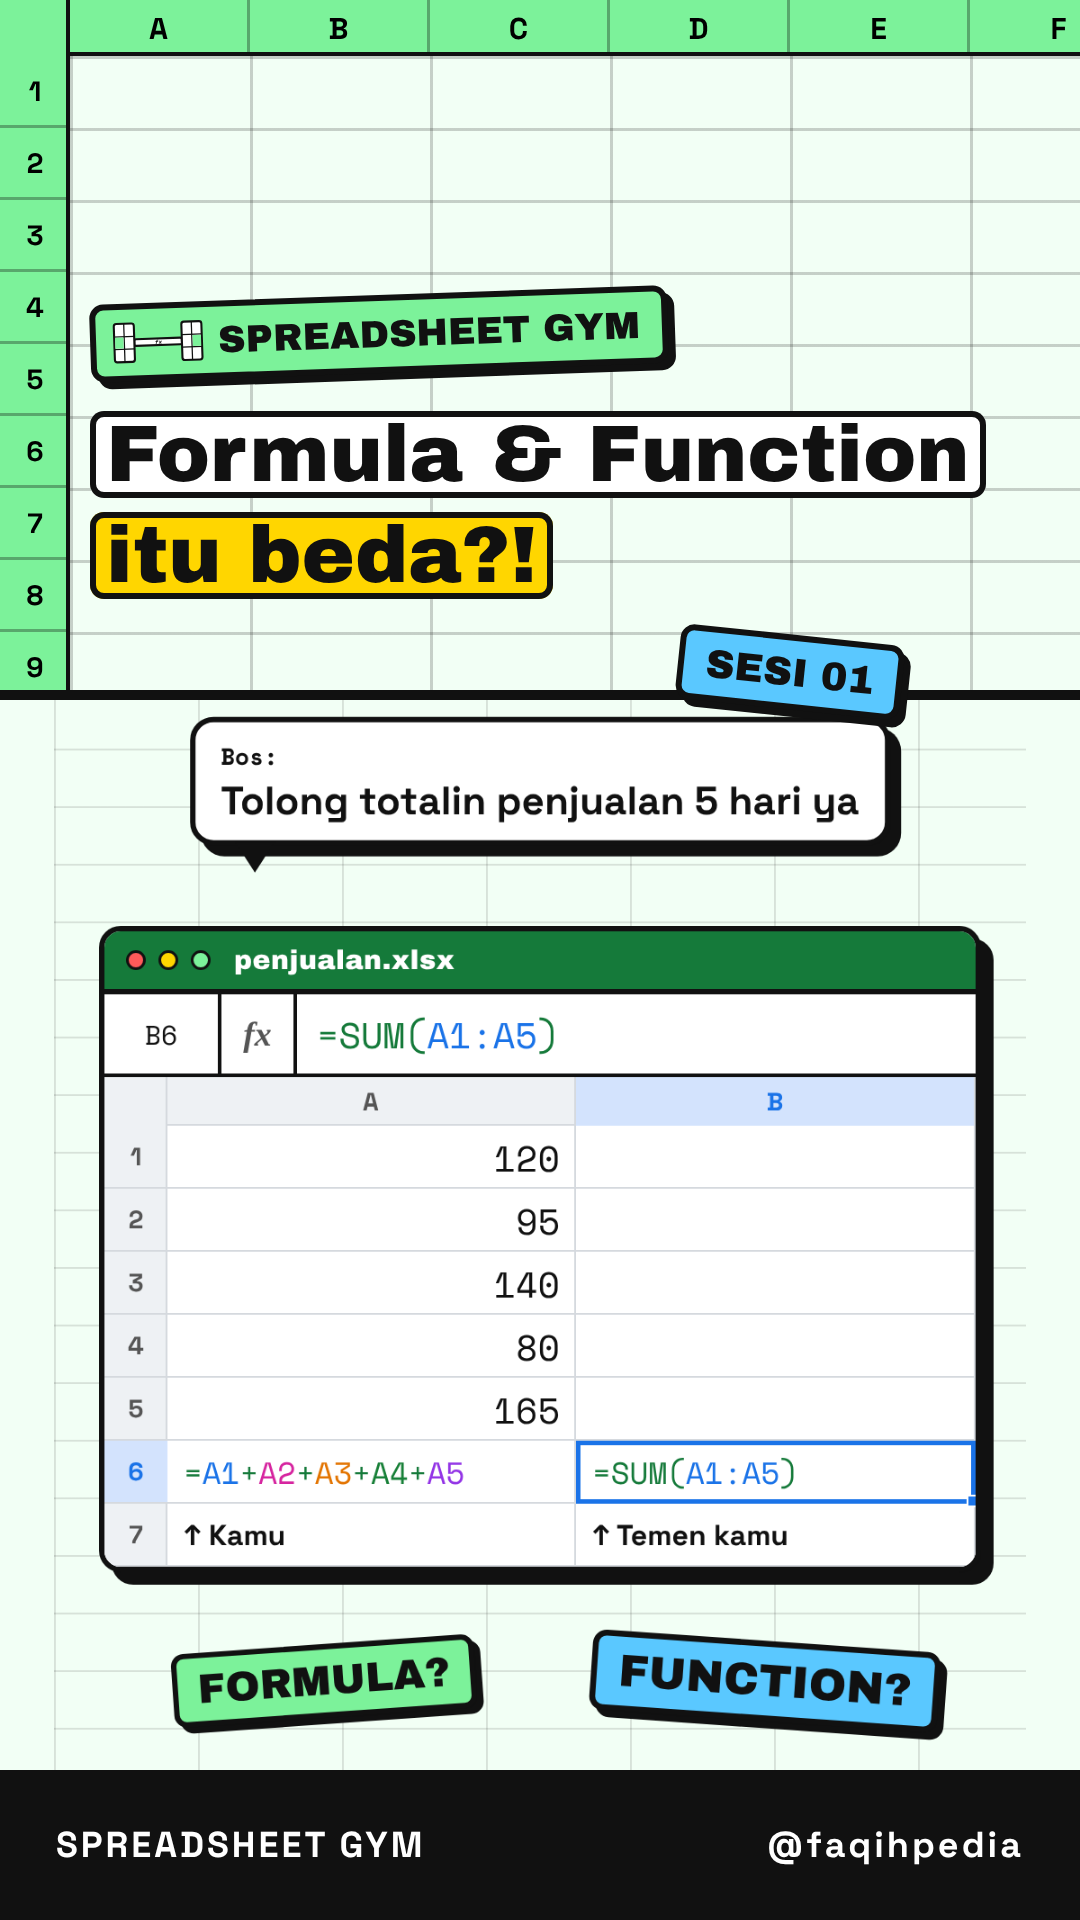
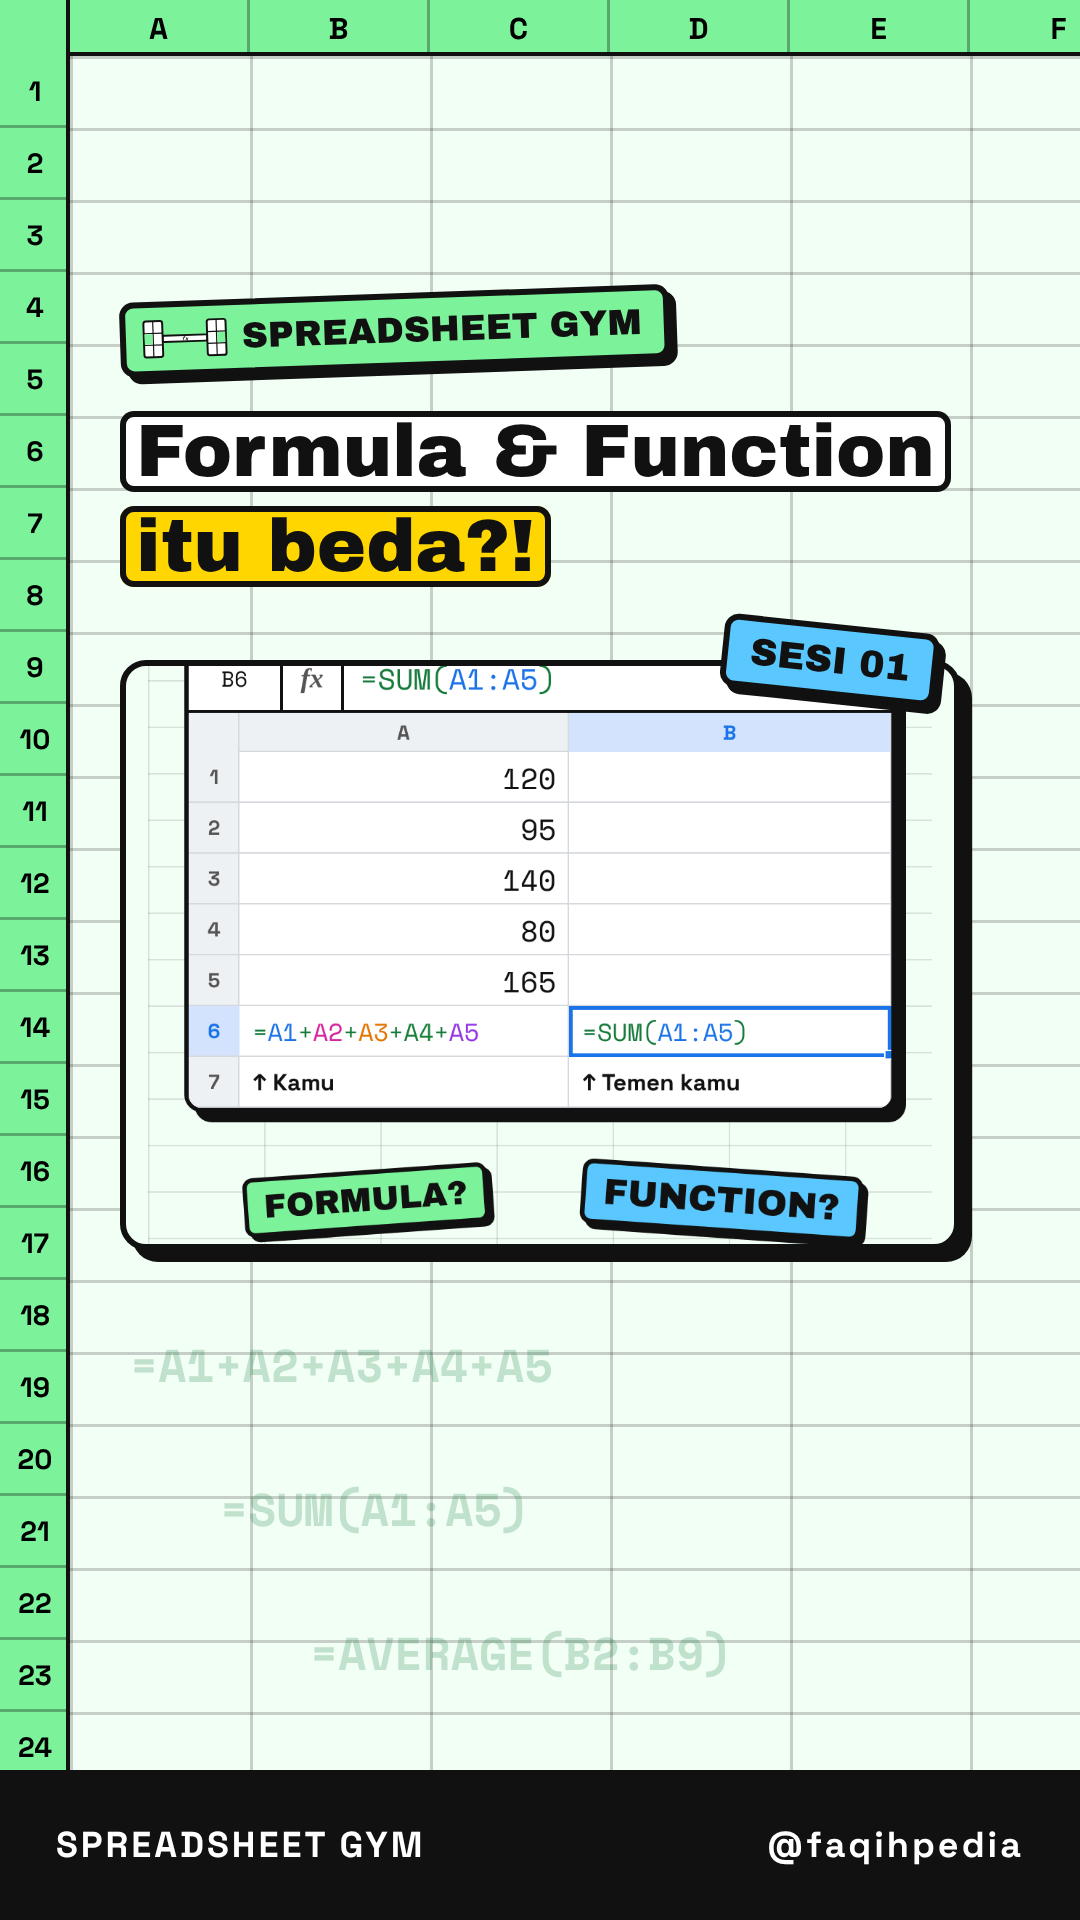
Spreadsheet Gym thumbnail: keep label, title and key visual inside the shared safe box
Claude-Session: https://claude.ai/code/session_018xRo3ZmD22FHxxpmWKTbyx

Changed region(s): [[0.0, 0.3125, 1.0, 0.9375], [0.0611, 0.1562, 0.9167, 0.3125]]

diff --git a/spreadsheet-gym-formula-vs-function/src/Thumbnail.tsx b/spreadsheet-gym-formula-vs-function/src/Thumbnail.tsx
@@ -2,32 +2,35 @@ import React from 'react';
 import { AbsoluteFill, Img, staticFile } from 'remotion';
 import { At, Box, Sticker } from './components';
 import { Barbell } from './scenes';
-import { BORDER, BODY, C, EPISODE_LABEL, HEAD } from './theme';
+import { BORDER, BODY, C, EPISODE_LABEL, HEAD, shadow } from './theme';
 
 /*
- * Cover, same rules as the TRIMS covers (trims-eps2-claude/src/Thumbnail.tsx
- * on claude/awesome-hawking-b9e871), in the Spreadsheet Gym identity:
- *  - segment motif on top (a spreadsheet: column letters, row numbers, cell grid),
- *    segment label + logo top-left tilted -2°, a short title (5 words)
- *  - a real frame of the video across the bottom half; no face in this segment,
- *    so it's the warm-up question at 18.1 s (boss request, both formulas,
- *    "Formula?" / "Function?"). It must not show the answer.
- *  - a tilted card on the panel edge (episode number, plate blue)
- *  - black series strip at the bottom
+ * Cover for TikTok, IG Reels and the IG feed.
+ *
+ * Safe area (same as faqihpedia-askmaps/src/Thumbnail.tsx): label, title and
+ * key visual stay inside the shared safe box x 120-960, y 285-1250. Outside it
+ * there is only decoration, because TikTok's UI covers the top 240, the bottom
+ * 670 and the right 120 px, and IG crops to 3:4 (grid) and 4:5 (feed).
+ *
+ * Inside the box it follows the TRIMS cover rules (trims-eps2-claude):
+ * segment label + logo tilted -2°, a short title on white/yellow marks,
+ * a tilted card on the edge of a real video frame, and the black series strip.
+ * No face in this segment. The frame is the warm-up question (18.1 s: both
+ * formulas, "Formula?" / "Function?"), so the cover never gives the answer away.
  */
-const SAFE = { left: 60, right: 940, top: 285, bottom: 1500 };
+export const SAFE = { x: 120, y: 285, w: 840, h: 965 };
 
 const mark: React.CSSProperties = {
   background: C.white, boxShadow: `inset 0 0 0 6px ${C.ink}`, borderRadius: 14, padding: '0 16px',
   boxDecorationBreak: 'clone', WebkitBoxDecorationBreak: 'clone',
 };
 
-const PHOTO_TOP = 690;
-const FRAME_Y = 330; // first row of the video frame shown at the panel top
-const K = 0.9; // frame scale, so the bubble, sheet and both question stickers fit
-const STRIP = 150;
+// key visual: the sheet + question stickers of the warm-up frame (source y 690-1475, x 40-1040)
+const PANEL = { x: SAFE.x, y: 660, w: SAFE.w, h: SAFE.y + SAFE.h - 660 };
+const SRC = { x: 40, y: 690, w: 1000, h: 785 };
+const K = Math.min((PANEL.w - 40) / SRC.w, (PANEL.h - 20) / SRC.h);
 
-/** spreadsheet motif: header row with column letters, row numbers, cell grid */
+/** spreadsheet motif: header row with column letters, row numbers, cell grid (decoration) */
 const SheetMotif: React.FC = () => {
   const colW = 180;
   const rowH = 72;
@@ -50,7 +53,7 @@ const SheetMotif: React.FC = () => {
         </div>
       ))}
       <div style={{ position: 'absolute', left: 0, top: 0, bottom: 0, width: numW, background: C.green, borderRight: `4px solid ${C.ink}` }} />
-      {Array.from({ length: 9 }, (_, r) => (
+      {Array.from({ length: 26 }, (_, r) => (
         <div key={r} style={{ position: 'absolute', left: 0, top: headH + r * rowH, width: numW, height: rowH, display: 'flex', alignItems: 'center', justifyContent: 'center', fontFamily: BODY, fontWeight: 700, fontSize: 28, borderBottom: `3px solid ${C.ink}55` }}>
           {r + 1}
         </div>
@@ -59,43 +62,69 @@ const SheetMotif: React.FC = () => {
   );
 };
 
-export const Thumbnail: React.FC = () => (
+/** overlays for checking the layout: platform UI (red), IG crops (blue 3:4, green 4:5), safe box (orange) */
+const Guides: React.FC = () => (
+  <AbsoluteFill style={{ pointerEvents: 'none' }}>
+    <div style={{ position: 'absolute', left: 0, right: 0, top: 0, height: 240, background: 'rgba(255,0,80,0.18)' }} />
+    <div style={{ position: 'absolute', left: 0, right: 0, bottom: 0, height: 670, background: 'rgba(255,0,80,0.18)' }} />
+    <div style={{ position: 'absolute', right: 0, top: 240, bottom: 670, width: 120, background: 'rgba(255,0,80,0.18)' }} />
+    <div style={{ position: 'absolute', left: 0, right: 0, top: 240, height: 1440, border: '4px dashed #0A84FF', boxSizing: 'border-box' }} />
+    <div style={{ position: 'absolute', left: 0, right: 0, top: 285, height: 1350, border: '4px dashed #34C759', boxSizing: 'border-box' }} />
+    <div style={{ position: 'absolute', left: SAFE.x, top: SAFE.y, width: SAFE.w, height: SAFE.h, border: '5px solid #FF9F0A', boxSizing: 'border-box' }} />
+  </AbsoluteFill>
+);
+
+export const Thumbnail: React.FC<{ guides?: boolean }> = ({ guides = false }) => (
   <AbsoluteFill style={{ background: C.bg, overflow: 'hidden' }}>
     <SheetMotif />
 
-    {/* real video frame, bleeding off the bottom */}
-    <div style={{ position: 'absolute', left: 0, right: 0, top: PHOTO_TOP, bottom: 0, overflow: 'hidden', borderTop: `${BORDER + 4}px solid ${C.ink}`, background: C.bg }}>
-      <Img src={staticFile('thumb-frame.png')} style={{ position: 'absolute', left: (1080 - 1080 * K) / 2, top: -FRAME_Y * K, width: 1080 * K, height: 1920 * K }} />
-    </div>
+    {/* decoration below the safe box: faded formulas in the grid */}
+    {[['=A1+A2+A3+A4+A5', 1330], ['=SUM(A1:A5)', 1474], ['=AVERAGE(B2:B9)', 1618]].map(([fx, y], i) => (
+      <div key={i} style={{ position: 'absolute', left: 130 + i * 90, top: y as number, fontFamily: '"Space Mono", monospace', fontWeight: 700, fontSize: 46, color: C.formula, opacity: 0.22 }}>
+        {fx}
+      </div>
+    ))}
 
-    {/* segment label, top-left */}
-    <div style={{ position: 'absolute', left: SAFE.left + 30, top: SAFE.top + 10, transform: 'rotate(-2deg)' }}>
-      <Box bg={C.green} pad="8px 22px 8px 14px" radius={14} sh={7} style={{ display: 'flex', alignItems: 'center', gap: 12, fontFamily: HEAD, fontSize: 38, whiteSpace: 'nowrap' }}>
-        <Barbell w={96} />
+    {/* segment label */}
+    <div style={{ position: 'absolute', left: SAFE.x, top: SAFE.y + 18, transform: 'rotate(-2deg)', transformOrigin: 'left center' }}>
+      <Box bg={C.green} pad="8px 22px 8px 14px" radius={14} sh={7} style={{ display: 'flex', alignItems: 'center', gap: 12, fontFamily: HEAD, fontSize: 36, whiteSpace: 'nowrap' }}>
+        <Barbell w={90} />
         SPREADSHEET GYM
       </Box>
     </div>
 
-    {/* title: 5 words */}
-    <div style={{ position: 'absolute', left: SAFE.left + 30, top: 405, fontFamily: HEAD, fontSize: 80, lineHeight: 1.26, color: C.ink, whiteSpace: 'nowrap' }}>
+    {/* title: 5 words, fits the 840 px box */}
+    <div style={{ position: 'absolute', left: SAFE.x, top: 405, width: SAFE.w, fontFamily: HEAD, fontSize: 74, lineHeight: 1.28, color: C.ink, whiteSpace: 'nowrap' }}>
       <span style={mark}>Formula &amp; Function</span>
       <br />
       <span style={{ ...mark, background: C.yellow }}>itu beda?!</span>
     </div>
 
+    {/* key visual: real frame of the warm-up question */}
+    <div style={{ position: 'absolute', left: PANEL.x, top: PANEL.y, width: PANEL.w, height: PANEL.h, overflow: 'hidden', background: C.bg, border: `${BORDER}px solid ${C.ink}`, borderRadius: 26, boxShadow: shadow(12), boxSizing: 'border-box' }}>
+      <Img
+        src={staticFile('thumb-frame.png')}
+        style={{ position: 'absolute', left: (PANEL.w - SRC.w * K) / 2 - SRC.x * K - BORDER, top: 10 - SRC.y * K - BORDER, width: 1080 * K, height: 1920 * K }}
+      />
+    </div>
+
     {/* card on the panel edge */}
-    <At x={790} y={672} r={6}>
-      <Sticker bg={C.blue} size={40}>{EPISODE_LABEL}</Sticker>
+    <At x={830} y={PANEL.y} r={6}>
+      <Sticker bg={C.blue} size={38}>{EPISODE_LABEL}</Sticker>
     </At>
 
-    {/* series strip */}
+    {/* series strip (decoration, under the platform UI) */}
     <div style={{
-      position: 'absolute', left: 0, right: 0, bottom: 0, height: STRIP, background: C.ink, color: C.white,
+      position: 'absolute', left: 0, right: 0, bottom: 0, height: 150, background: C.ink, color: C.white,
       display: 'flex', alignItems: 'center', justifyContent: 'space-between', padding: '0 56px',
       fontFamily: BODY, fontWeight: 700, fontSize: 36, letterSpacing: 3,
     }}>
       <span>SPREADSHEET GYM</span>
       <span>@faqihpedia</span>
     </div>
+
+    {guides && <Guides />}
   </AbsoluteFill>
 );
+
+export const ThumbnailSafeCheck: React.FC = () => <Thumbnail guides />;

diff --git a/spreadsheet-gym-formula-vs-function/src/Root.tsx b/spreadsheet-gym-formula-vs-function/src/Root.tsx
@@ -1,6 +1,6 @@
 import React from 'react';
 import { Composition, Still } from 'remotion';
-import { Thumbnail } from './Thumbnail';
+import { Thumbnail, ThumbnailSafeCheck } from './Thumbnail';
 import { SpreadsheetGym } from './Video';
 import { FPS, TOTAL } from './theme';
 
@@ -8,5 +8,6 @@ export const Root: React.FC = () => (
   <>
     <Composition id="SpreadsheetGym" component={SpreadsheetGym} durationInFrames={TOTAL} fps={FPS} width={1080} height={1920} />
     <Still id="Thumbnail" component={Thumbnail} width={1080} height={1920} />
+    <Still id="ThumbnailSafeCheck" component={ThumbnailSafeCheck} width={1080} height={1920} />
   </>
 );

diff --git a/README.md b/README.md
@@ -113,6 +113,6 @@ python3 scripts/whistle.py public/sfx/whistle.wav                   # optional: 
 npm run render -- --browser-executable=<chrome-headless-shell>
 ```
 
-The cover is `thumbnail.png`, rendered from the `Thumbnail` still (`src/Thumbnail.tsx`) with `npx remotion still Thumbnail thumbnail.png`. It follows the TRIMS cover rules (`trims-eps2-claude/src/Thumbnail.tsx`): segment motif and label on top, a 5-word title, a tilted card on the panel edge, a real video frame across the bottom half, and the black series strip. This segment has no face, so the frame is the warm-up question at 18.1 s (`public/thumb-frame.png`). The cover must not give away the answer.
+The cover is `thumbnail.png` (the `Thumbnail` still in `src/Thumbnail.tsx`), one file for TikTok, IG Reels and the IG feed. It follows the shared safe area from `faqihpedia-askmaps`: label, title and key visual stay inside x 120–960, y 285–1250, and only decoration sits outside it. `thumbnail-safe-area-check.png` shows the overlays. Inside the box it follows the TRIMS cover rules (`trims-eps2-claude/src/Thumbnail.tsx`): segment label and logo, a 5-word title, a tilted card on the edge of a real video frame, and the black series strip. This segment has no face, so the frame is the warm-up question at 18.1 s (`public/thumb-frame.png`). The cover must not give away the answer. Render with `npx remotion still Thumbnail thumbnail.png` and `npx remotion still ThumbnailSafeCheck thumbnail-safe-area-check.png`.
 
 Scene timing is cued to words in the VO (`cue(part, word)` in `src/theme.ts`), so the edit follows a regenerated VO without manual retiming. The episode number, weight and main formula are `EPISODE` and `MAIN_FORMULA` in `src/theme.ts`.
